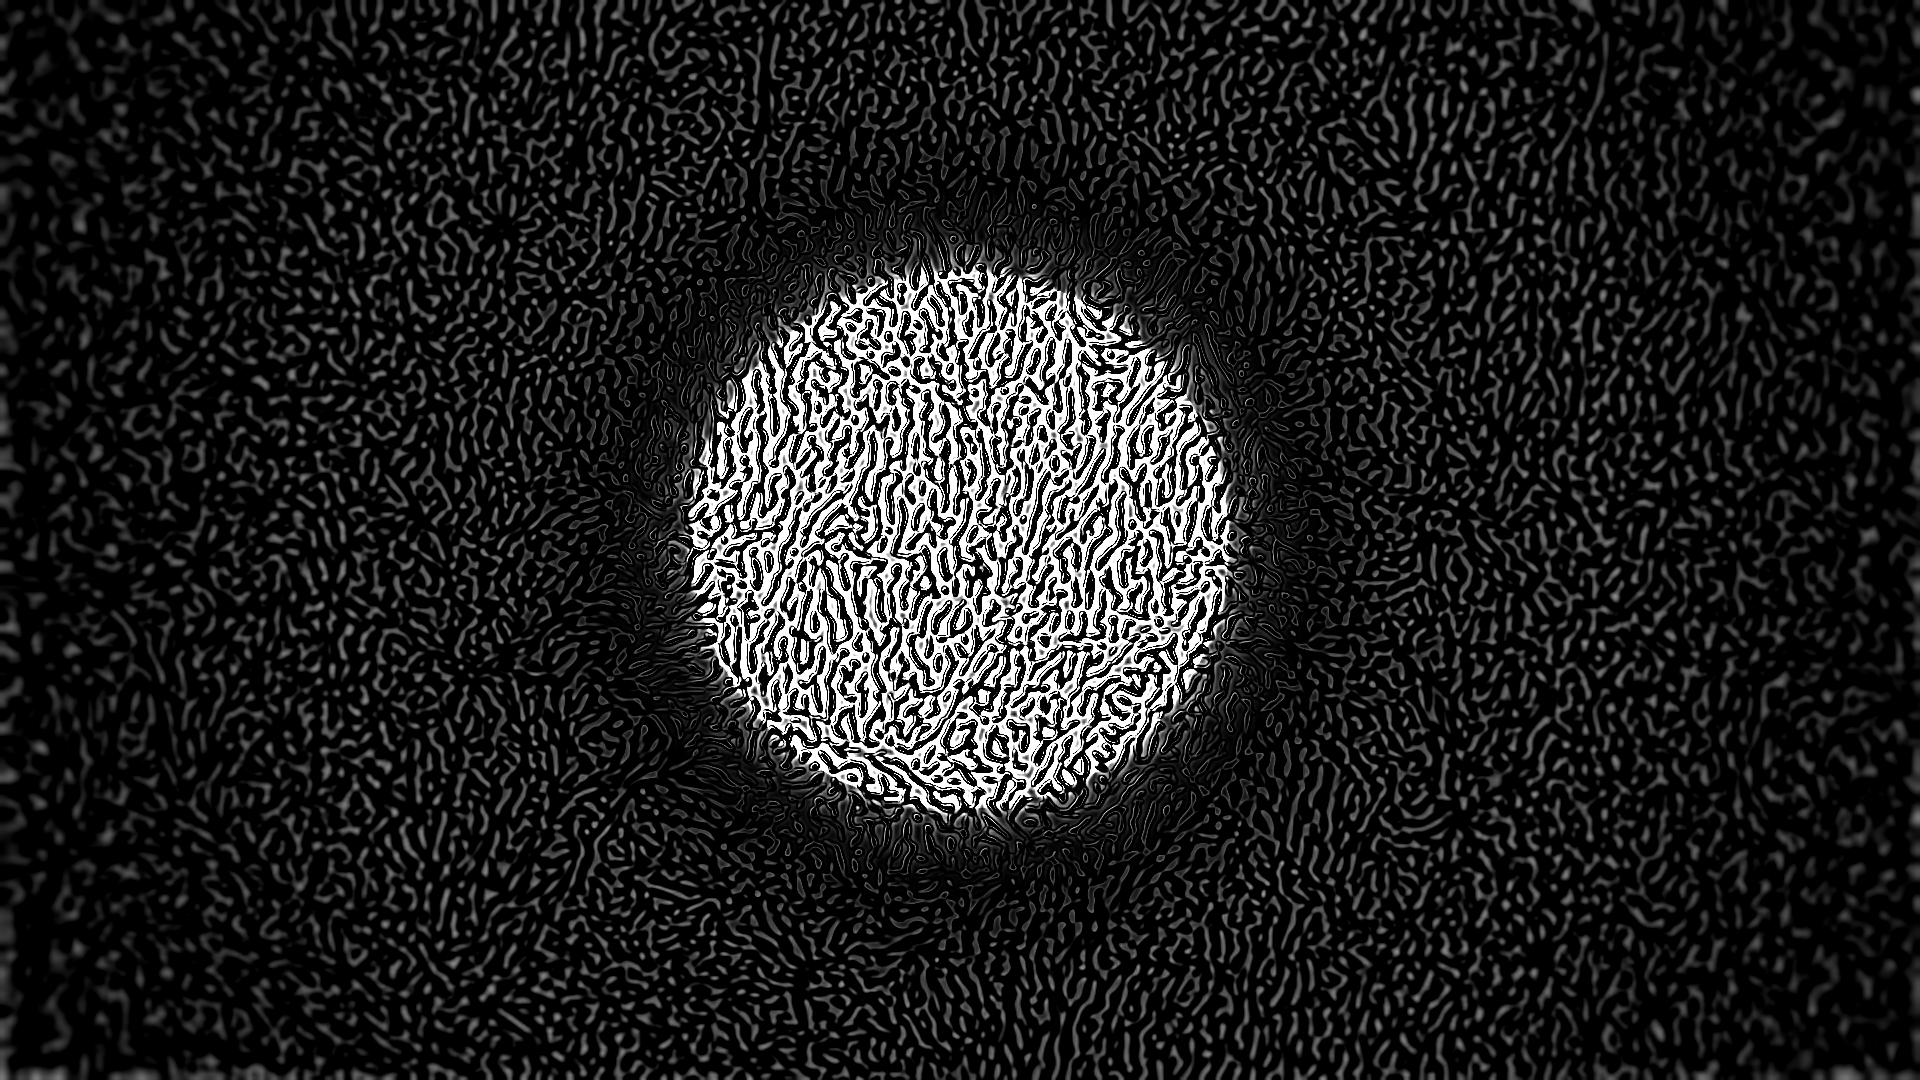
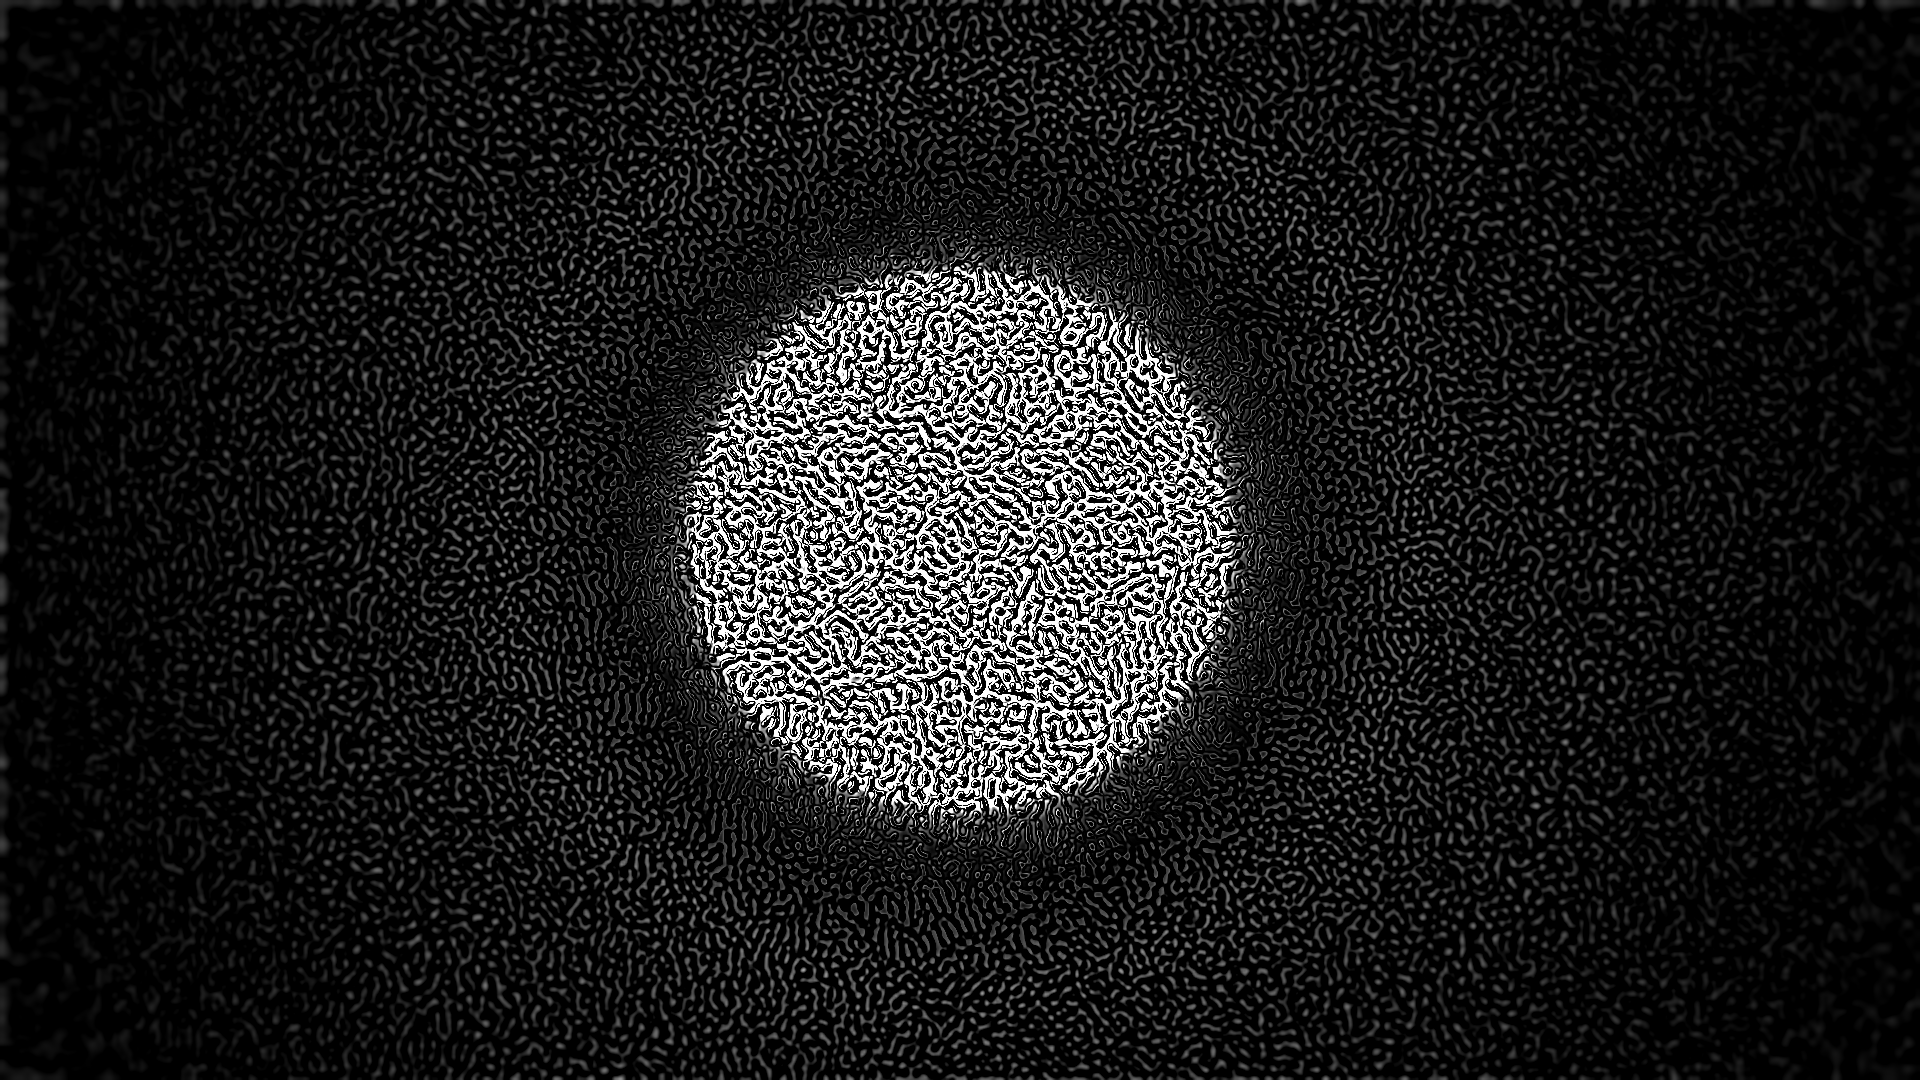
Remove Difference of Gaussians

diff --git a/src/bluenoise.py b/src/bluenoise.py
@@ -56,17 +56,25 @@ def blue_noise_field_from_poisson_points2(height, width, r_px = 12, seed = 0, si
 	points = poisson_disk_points(height, width, r_px, seed)
 	field = np.zeros((height, width), np.float32)
 	kappa = 1.6
+
 	for (x, y) in points:
 		(xi, yi) = int(round(x)), int(round(y))
 		if theta_map is None:
 			theta = 0.0
 			coh = 0.0
-		else:
+
+		# Look up larger values from coherency map
+		else: 
 			yi_clamp = int(np.clip(yi, 0, height - 1))
 			xi_clamp = int(np.clip(xi, 0, width - 1))
 			theta = float(theta_map[yi_clamp, xi_clamp])
 			coh = float(coherency_map[yi_clamp, xi_clamp])
+
+		# coherency to anisotropy
+		# flat regions: rho ~1; rho > 1, more elongated
 		rho = rho_min + (rho_max - rho_min) * coh
+
+		# Set major and minor axis of the kernel
 		sigma_minor = float(sigma_blob)
 		sigma_major = rho * sigma_minor
 		sigma1_u = sigma_major
@@ -74,30 +82,41 @@ def blue_noise_field_from_poisson_points2(height, width, r_px = 12, seed = 0, si
 		sigma2_u = kappa * sigma1_u
 		sigma2_v = kappa * sigma1_v
 		s_max = max(sigma2_u, sigma2_v)
+
 		kernel_size = int(max(7, int(6 * s_max) + 1)) | 1
 		half = kernel_size // 2
+
+		# Make grid
 		yy, xx = np.mgrid[-half:half+1, -half:half+1].astype(np.float32)
+
 		ct = np.cos(-theta)
 		st = np.sin(-theta)
+
+		# u -> moves along across grid, v -> cut across grid
 		u =  ct * xx - st * yy
 		v =  st * xx + ct * yy
-		G1 = np.exp(-0.5 * ((u * u) / (sigma1_u * sigma1_u + 1e-12) + (v * v) / (sigma1_v * sigma1_v + 1e-12))).astype(np.float32)
-		G2 = np.exp(-0.5 * ((u * u) / (sigma2_u * sigma2_u + 1e-12) + (v * v) / (sigma2_v * sigma2_v + 1e-12))).astype(np.float32)
-		alpha = float(G1.sum()) / (float(G2.sum()) + 1e-12)
-		K = G1 - alpha * G2
+
+		# oriented gabor (cosine-modulated Gaussian), enforced zero-mean/energy
+		G = np.exp(-0.5 * ((u * u) / (sigma1_u * sigma1_u + 1e-12) + (v * v) / (sigma1_v * sigma1_v + 1e-12))).astype(np.float32)
+		freq = 1.0 / (4.0 * (sigma1_v + 1e-12))
+		K = (G * np.cos(2.0 * np.pi * freq * u)).astype(np.float32)
 		K -= K.mean()
 		K /= (np.sqrt((K * K).sum()) + 1e-12)
+
 		(y0, y1) = max(0, yi - half), min(height, yi + half + 1)
 		(x0, x1) = max(0, xi - half), min(width, xi + half + 1)
 		(by0, by1) = half - (yi - y0), half + (y1 - yi) - 1
 		(bx0, bx1) = half - (xi - x0), half + (x1 - xi) - 1
+
 		Kc = K[by0:by1 + 1, bx0:bx1 + 1]
 		Kc = Kc - Kc.mean()
 		Kc /= (np.sqrt((Kc * Kc).sum()) + 1e-12)
 		field[y0:y1, x0:x1] += Kc
+
 	field -= field.mean()
 	field /= (field.std() + 1e-6)
 	return field
+
 
 
 
@@ -124,7 +143,8 @@ def compute_orientation_field(img, sigma_smooth = 1.0, eps = 1e-6):
 	return theta.astype(np.float32), coherency
 
 
-
+# theta: local orientation
+# coherency: Directionality of the structure
 def bandlimited_blue_noise(height, width, sigma_map, levels = 5, r_px = 12, seed = 0, sigma_blob = 0.5, theta_map = None, coherency_map = None, rho_min = 1.0, rho_max = 3.0):
 	field = blue_noise_field_from_poisson_points2(height, width, r_px = r_px, seed = seed, sigma_blob = sigma_blob, theta_map = theta_map, coherency_map = coherency_map, rho_min = rho_min, rho_max = rho_max)
 	
